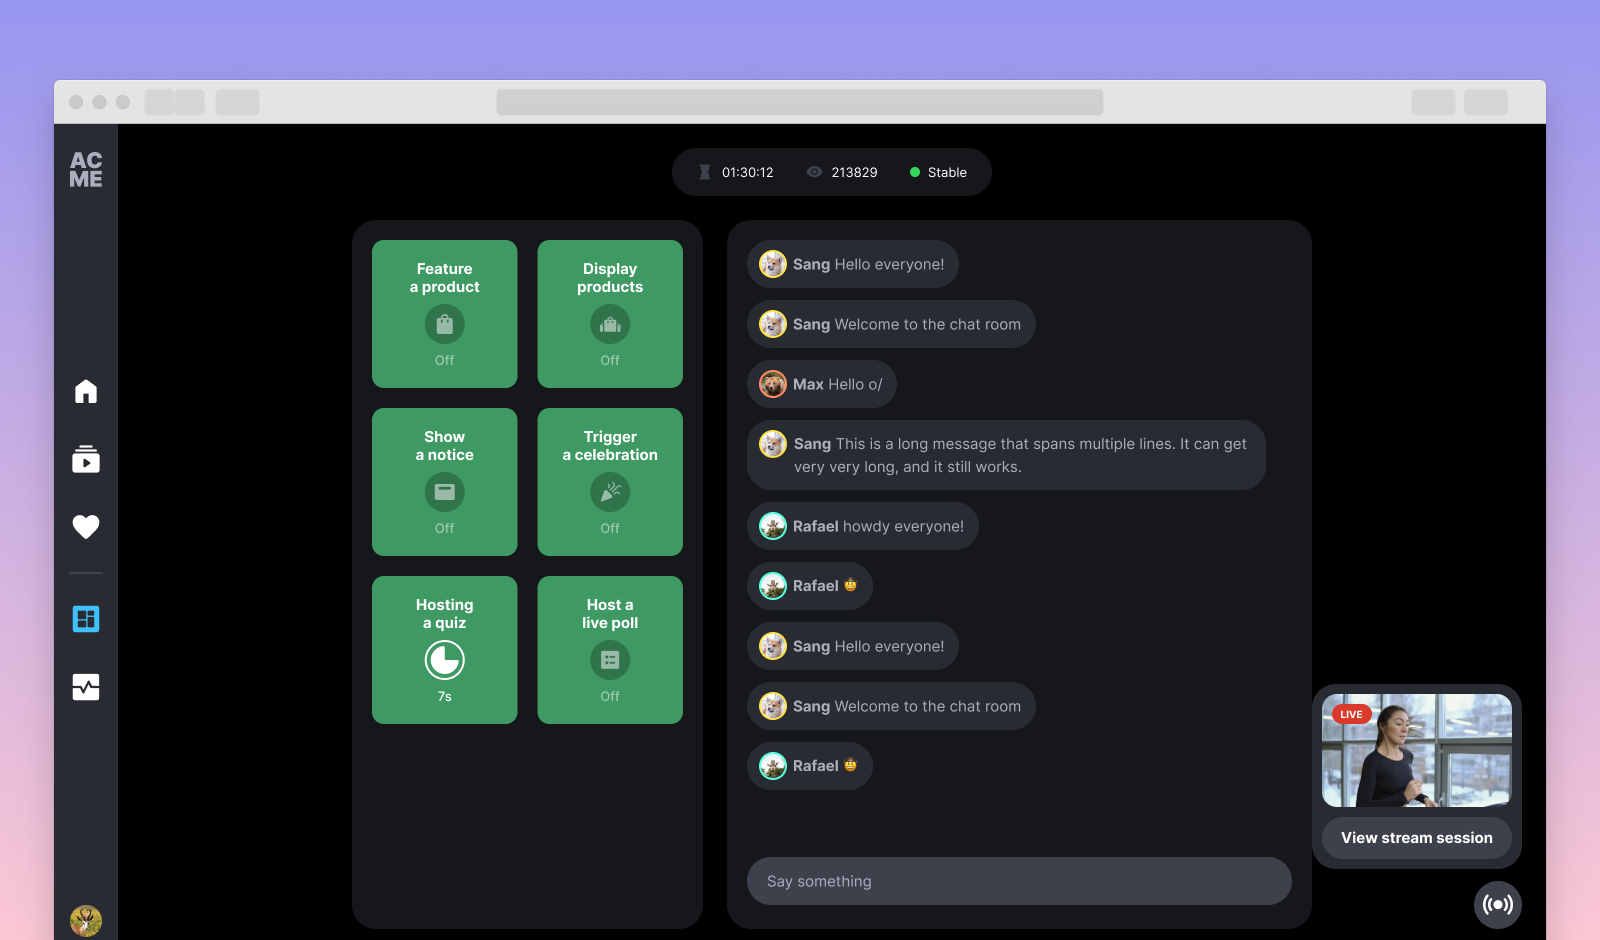
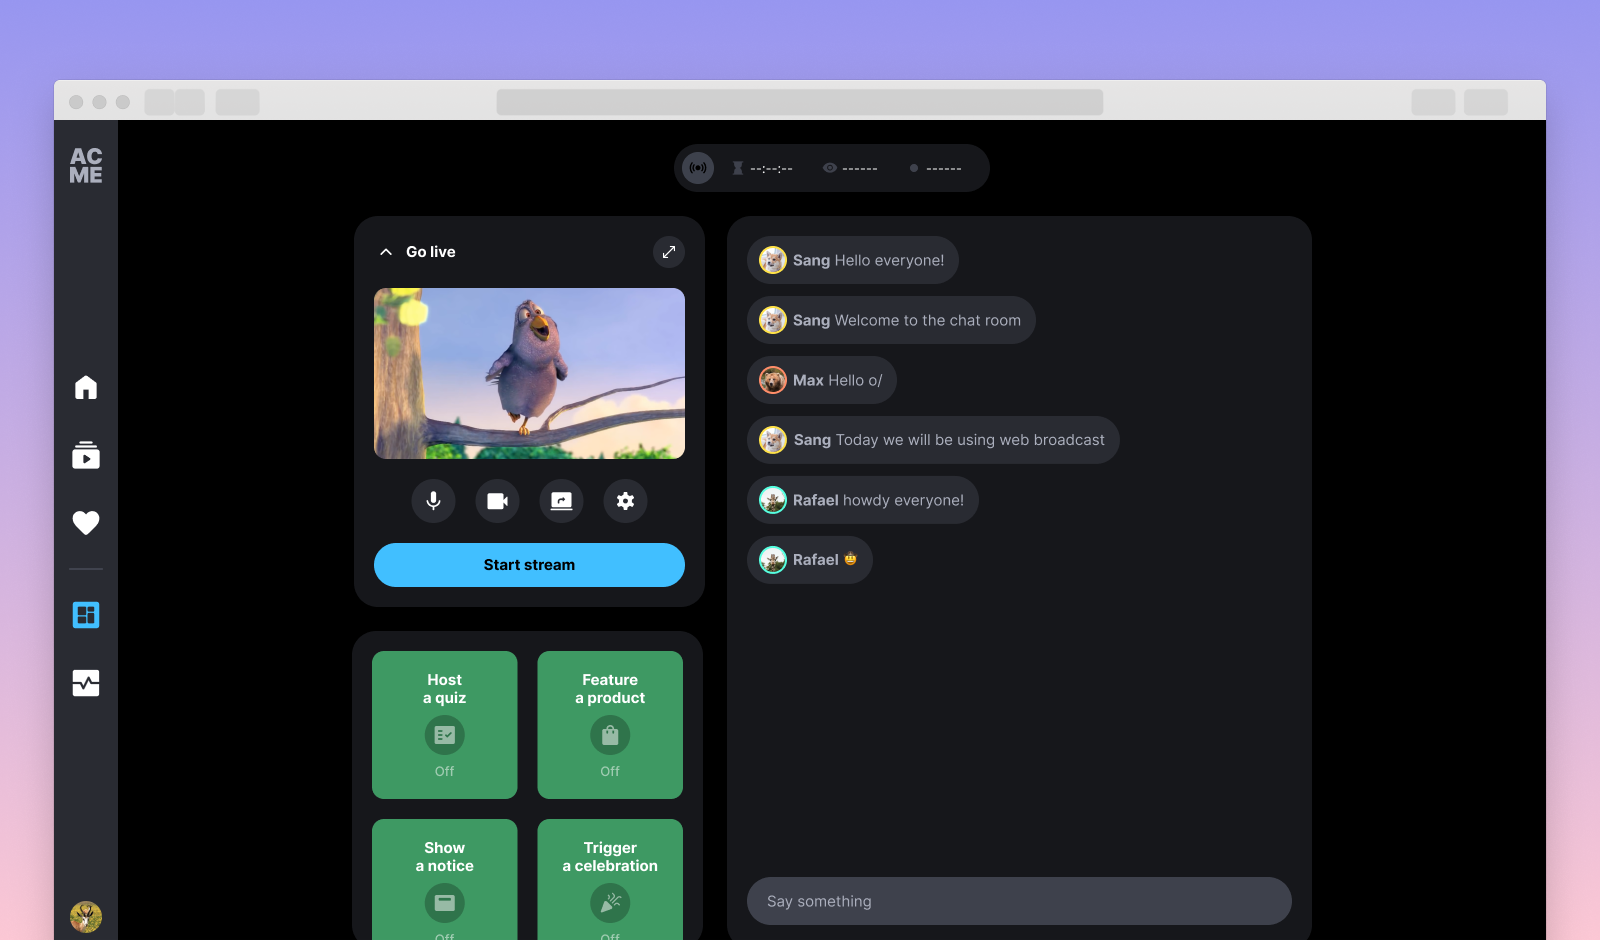
feat(web-broadcast/aivs-960): readme update (#350)
* feat: updatereadme for web broadcast

* feat: update readme for web broadcast

* feat: update stream manager page screenshot

* feat: update stream health page

diff --git a/README.md b/README.md
@@ -114,9 +114,17 @@ The video bitrate, frame rate, concurrent views and keyframe interval metrics co
 
 ### Stream management
 
-The stream management page is only accessible to authenticated users, from the `/manager` URL. On this page, streamers can trigger stream overlays, as well as monitor and moderate their chatroom. Users can also prepare and save stream overlay configurations for later use.
+The stream management page is only accessible to authenticated users, from the `/manager` URL. On this page, streamers can start a web broadcast, trigger stream overlays, as well as monitor and moderate their chatroom. Users can also prepare and save stream overlay configurations for later use.
 
 ![Stream Manager page](screenshots/features/stream-manager-page.png)
+
+#### Web broadcast
+
+Users are prompted to grant camera and microphone access when accessing the `/manager` URL, ensuring proper device access for broadcasting. The user must allow both the camera and mic permissions to use this feature. Users can toggle camera, microphone, and screen sharing options. Users have control over various settings such as changing camera and microphone devices, and toggling the option to show their camera when sharing their screen. The application provides a full-screen view option and ends the stream when a user leaves the page.
+
+Read more about Amazon IVS Web broadcast from the [official SDK guide](https://aws.github.io/amazon-ivs-web-broadcast/docs/sdk-guides/introduction).
+
+Read about [web broadcast known issues and limitations](#web-broadcast-known-issues).
 
 #### Chat monitoring
 
@@ -339,21 +347,14 @@ Testing is automated using two GitHub Actions workflows: one for running the bac
 - The user registration flow involves the creation and coordination of multiple AWS resources, including the Cognito user pool, the Amazon IVS channel and chat room, and the DynamoDB channels table. This registration flow also includes important validation checks to ensure that the submitted data meets a set of constraints before the user is allowed to sign up for a new account. Therefore, we highly advise against creating or managing any user account from the AWS Cognito console or directly from the DynamoDB channels table as any such changes will be out of sync with the other user-related AWS resources. If at any point you see an error message pertaining to a manual change that was made from the AWS Cognito console (e.g. a password reset), a new account should be created using the frontend application's dedicated registration page.
 - Currently only tested in the us-west-2 (Oregon) and us-east-1 (N. Virginia) regions. Additional regions may be supported depending on service availability.
 
-## Web Broadcast known issues
-
-### Web Broadcast stream configuration
-
-- It is currently capped at 720p resolution, as the default setting for client instantiation. This resolution of 1280 x 720 does not cause any performance problems. However, using a higher resolution of 1080p seems to result in performance issues. 
-
-### Safari broadcasting issues
-
+### Web Broadcast known issues
+- It is currently capped at 720p resolution, as the default setting for client instantiation. This resolution of 1280 x 720 does not cause any performance problems. However, using a higher resolution of 1080p seems to result in performance issues.
 - There appear to be noticeable visual problems when livestreaming to either an "BASIC" or "STANDARD" channel on Safari. The broadcasting experience on Safari may not be optimal. However, we have decided to keep this feature enabled in the app, as reliable browser detection is currently unavailable. For a better broadcasting experience, we recommend using Chrome or Firefox.
-
 - On Safari v16.4 on macOS and iOS, the browser cannot capture the camera device. Because of this, the web broadcast video preview on the stream manager page will display as a black empty screen.
-
-### Firefox broadcasting issues
-
 - It seems that there is a noticeable lag when initializing the broadcast client using the "create" method in Firefox. This problem does not appear to occur in Chrome or Safari. this delay lasts for approximately 3-4 seconds and only happens during the first call to "create" method. That being said, the subsequent invocations of the "create" method complete almost instantly, but only in a newly opened browser tab. If the user refreshes the tab after invoking "create," the next "create" invocation is very fast.
+
+For Amazon IVS Web Broadcast SDK known issues, please refer to the [official SDK Guide](https://aws.github.io/amazon-ivs-web-broadcast/docs/sdk-guides/known-issues).
+
 ## Estimated costs
 
 For this estimation, we considered the usage costs associated with 1, 10 and 100 users, where each "user" is assumed to monitor one 4-hour live stream with 1 viewer. In each scenario, we assumed that there were no more than 10,800 chat messages sent by the end of the 4-hour stream. Additionally, the estimated costs below reflect the usage costs of running the production configuration of the CDK stack.
